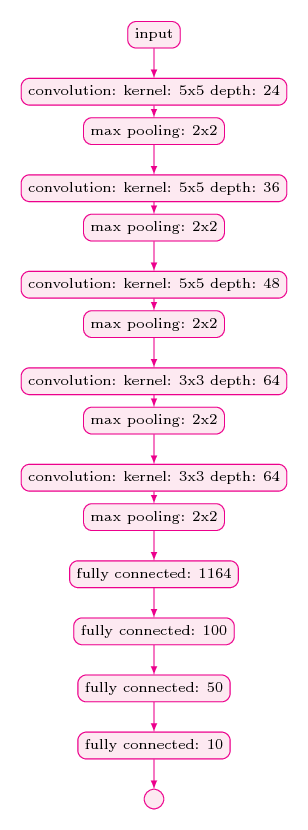
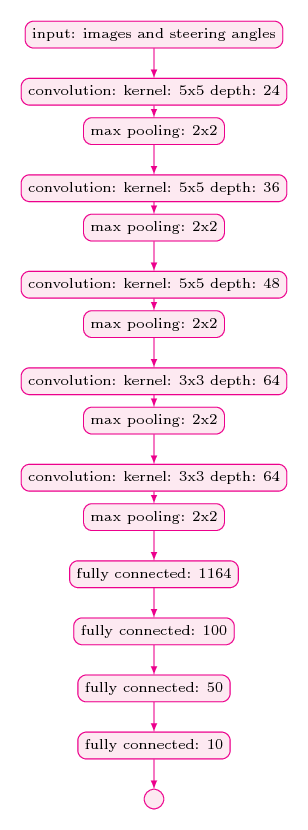
modified: pipeline and conv png tex files

Changed region(s): [[0.0584, 0.0, 0.9351, 0.0602]]

diff --git a/latex/pipeline.tex b/latex/pipeline.tex
@@ -11,7 +11,7 @@
         output/.style = {circle, draw=magenta,  fill=magenta!10, thin},
     }
     
-    \node[node](input)[text width=2cm]{\scriptsize input image and angle};
+    \node[node](input)[text width=2cm]{\scriptsize input: images and steering angles};
     
     \node[node](shear)[right = 0.2cm of input]{\scriptsize random shear};
     
@@ -21,7 +21,7 @@
     
     \node[node](gamma)[right = 0.2cm of flip]{\scriptsize random gamma}; 
     
-    \node[node](resize)[right = 0.2cm of gamma, text width=2cm]{\scriptsize resized image and angle};
+    \node[node](resize)[right = 0.2cm of gamma, text width=2cm]{\scriptsize output: resized images and angles};
     
     \path [line] (input) -- (shear);
     \path [line] (shear) -- (crop);

diff --git a/latex/conv_architecture.tex b/latex/conv_architecture.tex
@@ -11,7 +11,7 @@
         output/.style = {circle, draw=magenta,  fill=magenta!10, thin},
     }
     
-    \node[node](input){\scriptsize input};
+    \node[node](input){\scriptsize input: images and steering angles};
     
     \node[node](conv1)[below = 0.5cm of input]{\scriptsize convolution: kernel: 5x5 depth: 24};
     \node[node](pool1)[below = 0.2cm of conv1]{\scriptsize max pooling: 2x2};
